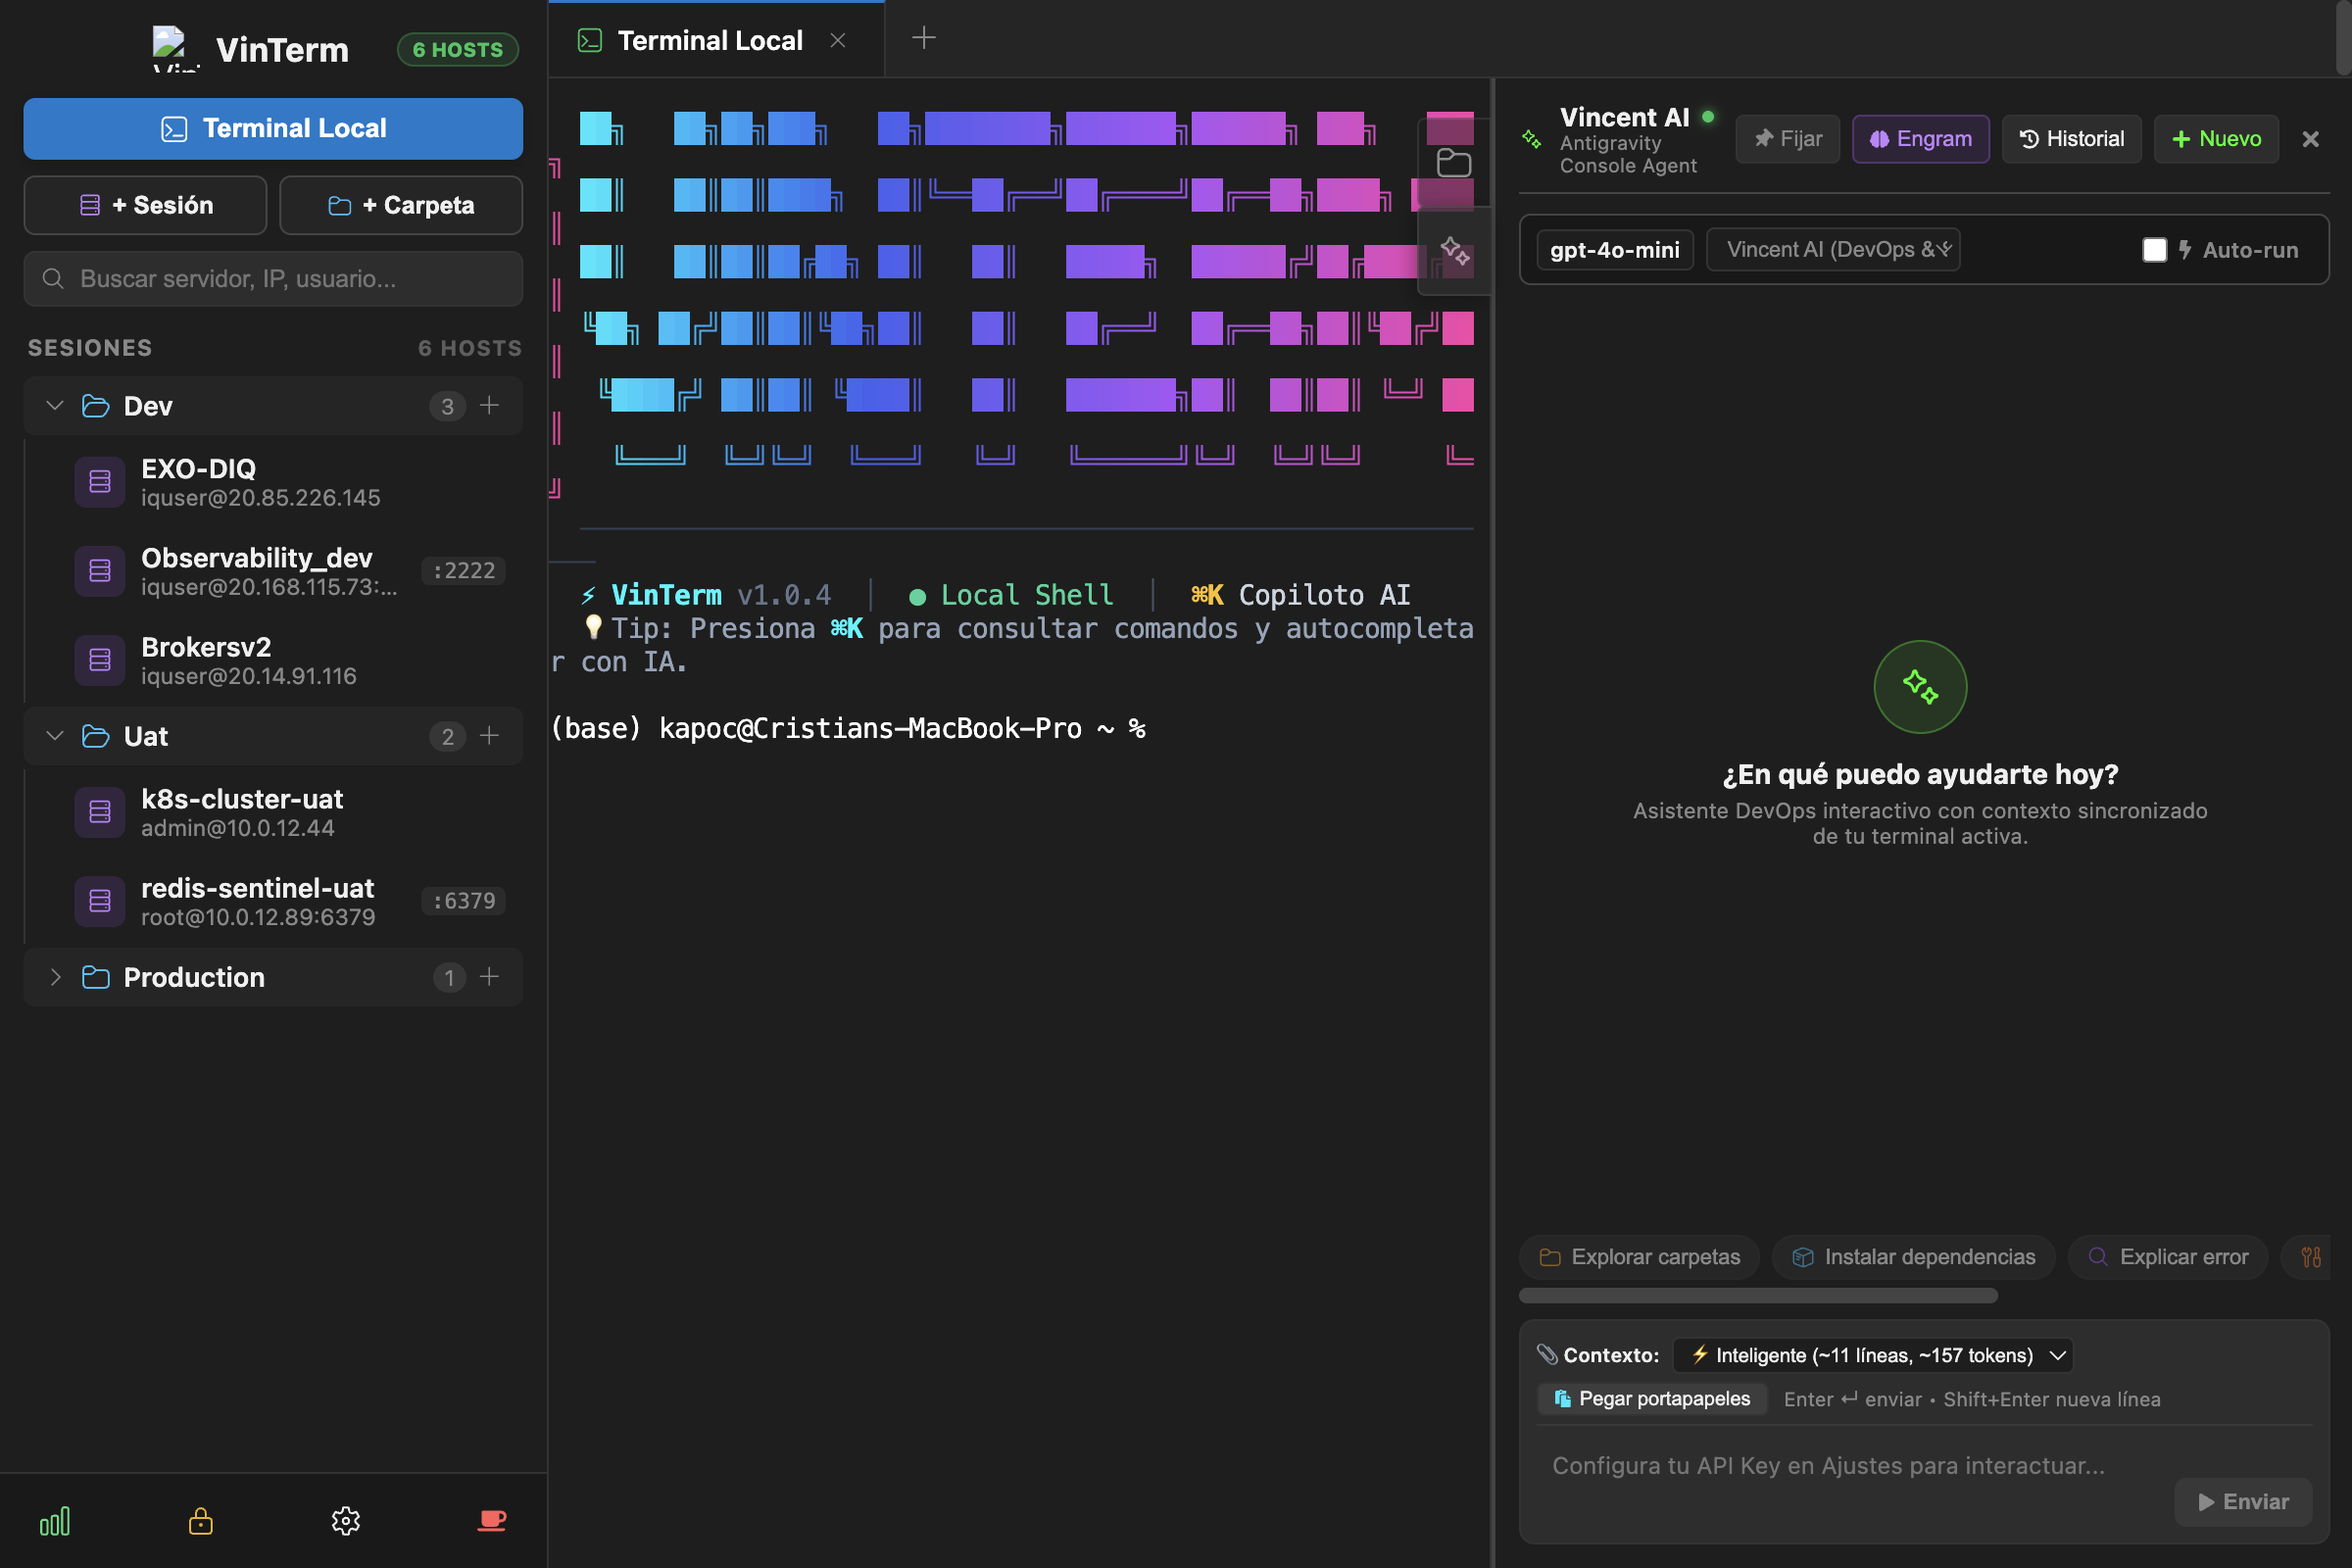
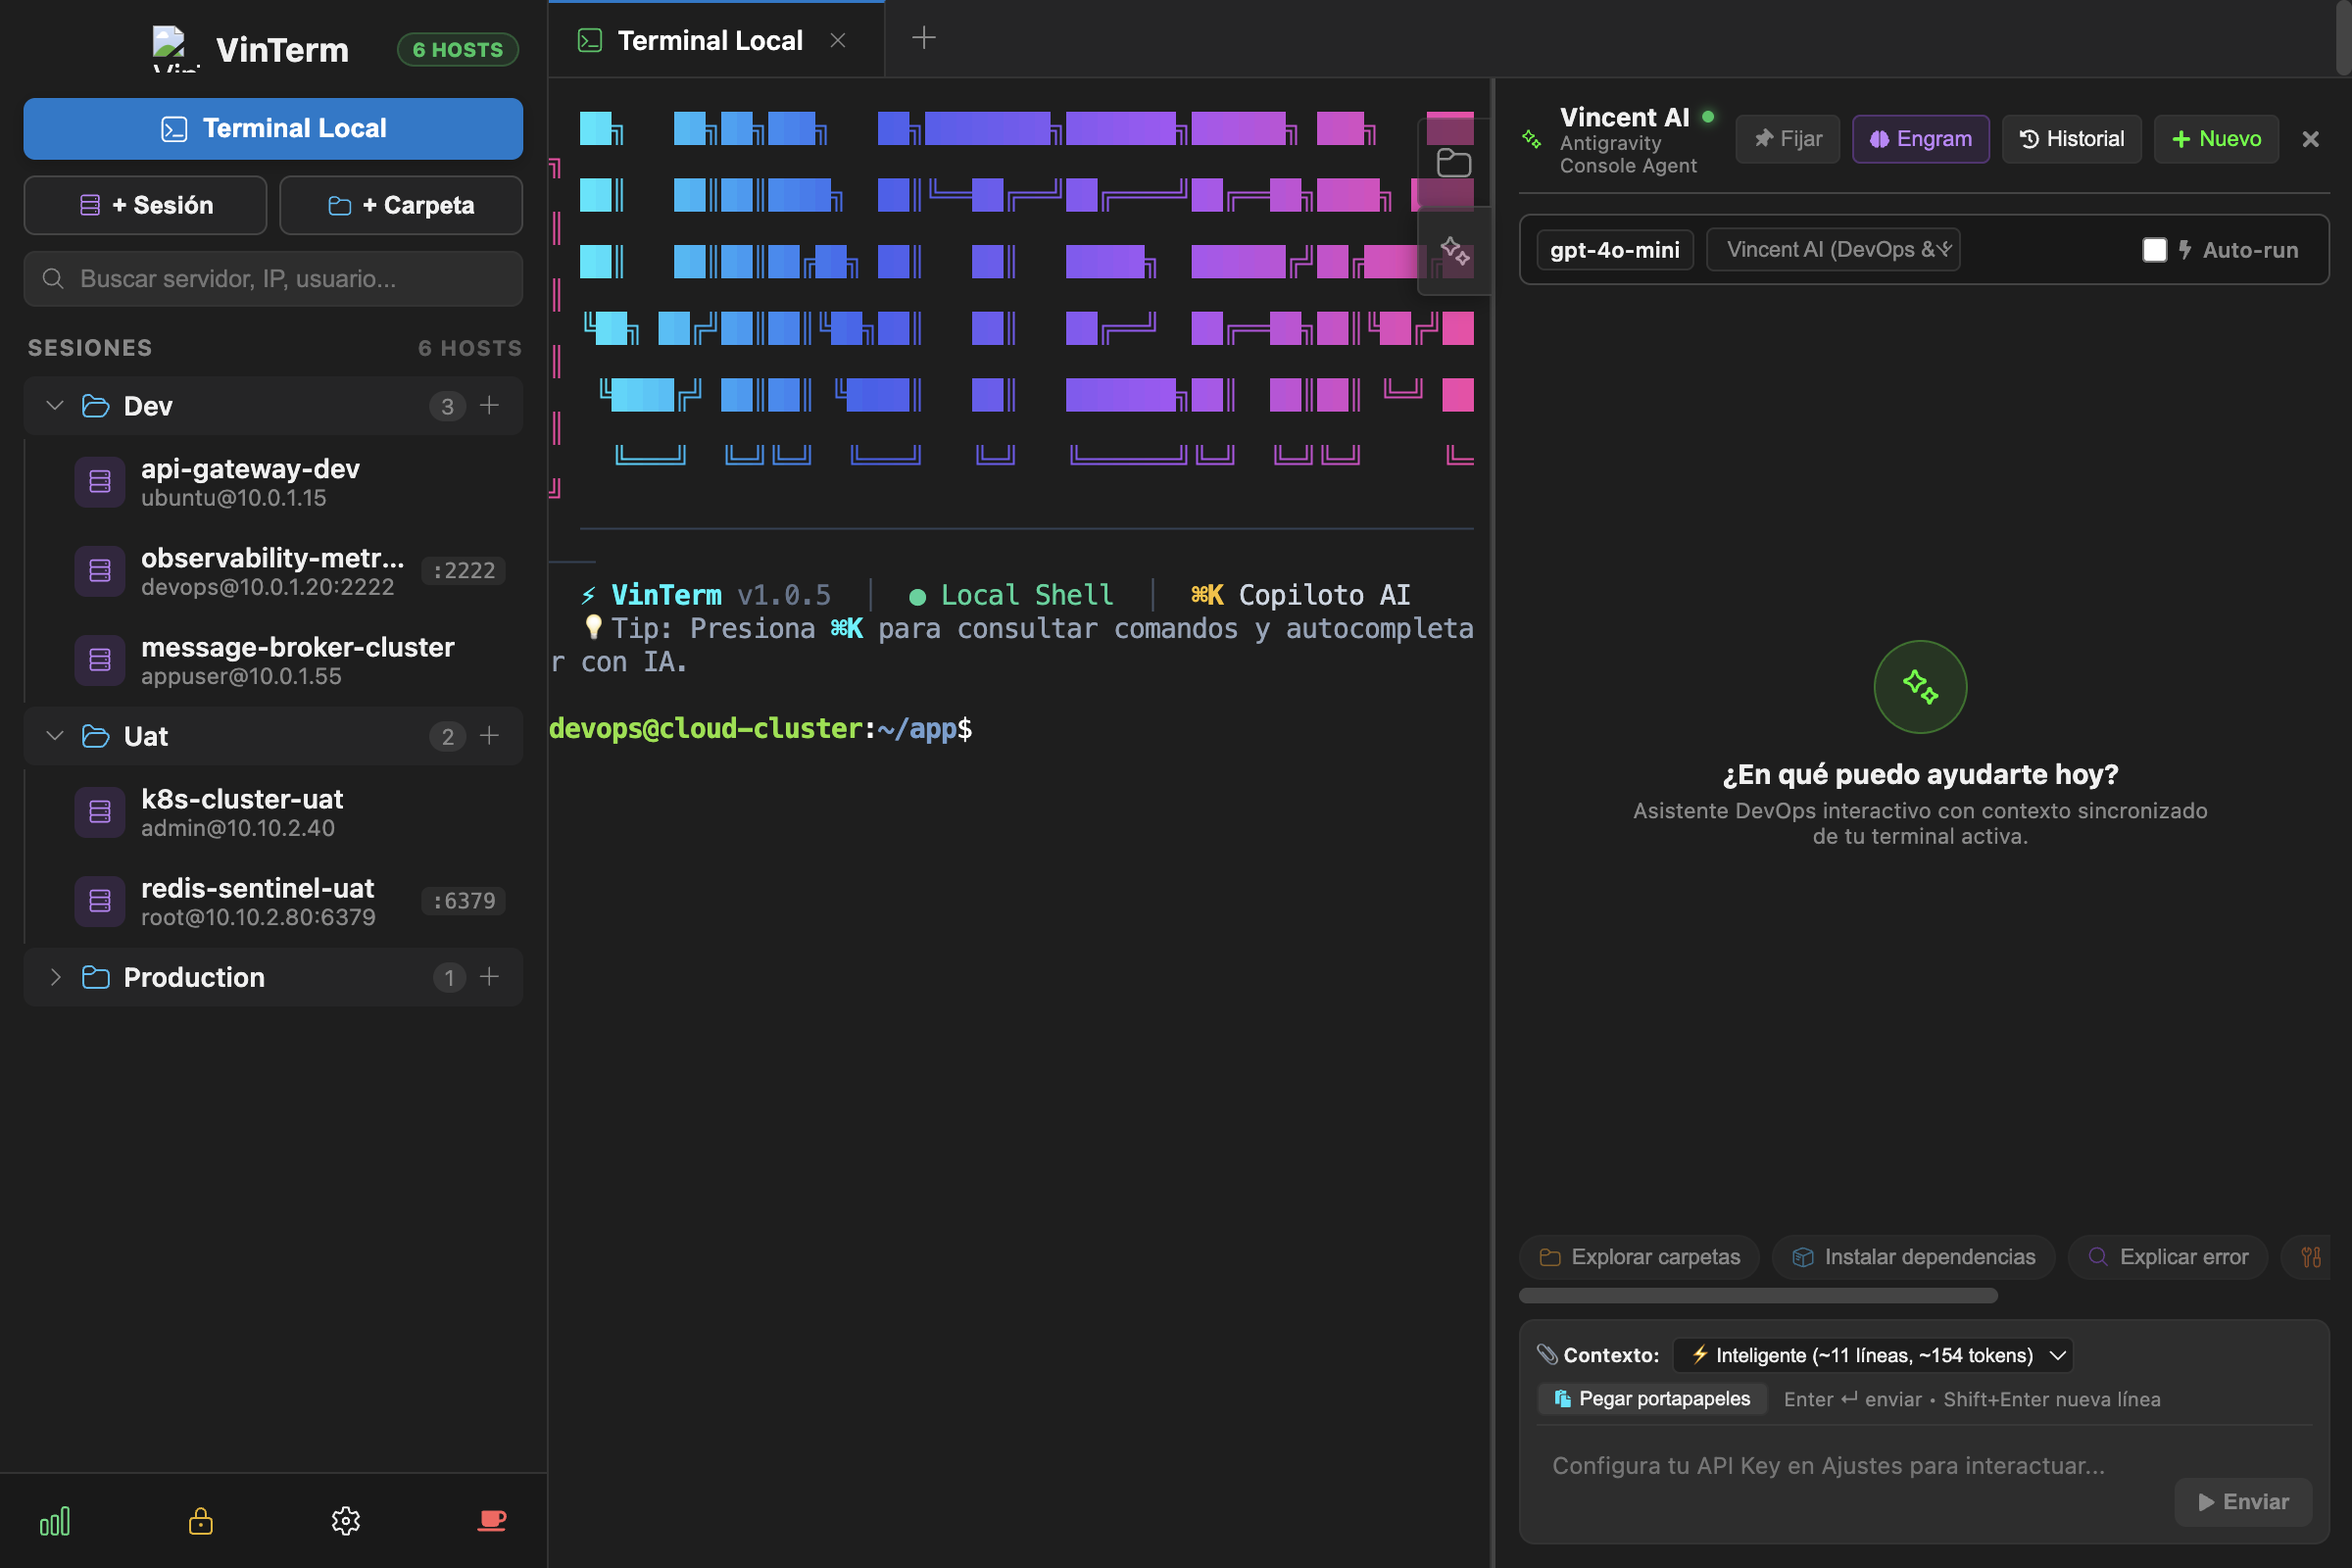
security(website): sanitize and anonymize all sensitive IPs and user prompts in screenshots

Changed region(s): [[0.0625, 0.2812, 0.1562, 0.375], [0.2188, 0.4375, 0.4688, 0.4688], [0.0625, 0.4062, 0.1875, 0.4375]]

diff --git a/app/electron/main.ts b/app/electron/main.ts
@@ -91,7 +91,7 @@ function createWindow() {
       };
 
       try {
-        // Step 1: Initialize demo state with our global hooks
+        // Step 1: Initialize demo state with censored & anonymized clean data
         await mainWindow.webContents.executeJavaScript(`
           (() => {
             if (window.__vinterm) {
@@ -102,13 +102,16 @@ function createWindow() {
                 { id: 'f3', name: 'Production', parentId: null, isOpen: false }
               ]);
               window.__vinterm.setSavedSessions([
-                { id: 's1', name: 'EXO-DIQ', folderId: 'f1', type: 'ssh', config: { username: 'iquser', host: '20.85.226.145', port: 22 } },
-                { id: 's2', name: 'Observability_dev', folderId: 'f1', type: 'ssh', config: { username: 'iquser', host: '20.168.115.73', port: 2222 } },
-                { id: 's3', name: 'Brokersv2', folderId: 'f1', type: 'ssh', config: { username: 'iquser', host: '20.14.91.116', port: 22 } },
-                { id: 's4', name: 'k8s-cluster-uat', folderId: 'f2', type: 'ssh', config: { username: 'admin', host: '10.0.12.44', port: 22 } },
-                { id: 's5', name: 'redis-sentinel-uat', folderId: 'f2', type: 'ssh', config: { username: 'root', host: '10.0.12.89', port: 6379 } },
-                { id: 's6', name: 'gcp-production-gw', folderId: 'f3', type: 'gcp', config: { gcpInstance: 'gw-west-01', gcpZone: 'us-west1-b', gcpProject: 'kappsco-cloud' } }
+                { id: 's1', name: 'api-gateway-dev', folderId: 'f1', type: 'ssh', config: { username: 'ubuntu', host: '10.0.1.15', port: 22 } },
+                { id: 's2', name: 'observability-metrics', folderId: 'f1', type: 'ssh', config: { username: 'devops', host: '10.0.1.20', port: 2222 } },
+                { id: 's3', name: 'message-broker-cluster', folderId: 'f1', type: 'ssh', config: { username: 'appuser', host: '10.0.1.55', port: 22 } },
+                { id: 's4', name: 'k8s-cluster-uat', folderId: 'f2', type: 'ssh', config: { username: 'admin', host: '10.10.2.40', port: 22 } },
+                { id: 's5', name: 'redis-sentinel-uat', folderId: 'f2', type: 'ssh', config: { username: 'root', host: '10.10.2.80', port: 6379 } },
+                { id: 's6', name: 'cloud-edge-gateway', folderId: 'f3', type: 'gcp', config: { gcpInstance: 'gw-prod-01', gcpZone: 'us-west1-b', gcpProject: 'kappsco-prod' } }
               ]);
+            }
+            if (window.__vintermTerminal && window.__vintermTerminal.cleanSensitivePrompt) {
+              window.__vintermTerminal.cleanSensitivePrompt();
             }
           })()
         `);
@@ -212,6 +215,9 @@ function createWindow() {
             if (window.__vintermTerminal) {
               window.__vintermTerminal.setShowAi(false);
               window.__vintermTerminal.setShowSftp(false);
+              if (window.__vintermTerminal.cleanSensitivePrompt) {
+                window.__vintermTerminal.cleanSensitivePrompt();
+              }
               window.__vintermTerminal.setShowQuickAi(true);
             }
           })()
@@ -234,6 +240,10 @@ function createWindow() {
           (() => {
             if (window.__vinterm) {
               window.__vinterm.setShowSessionModal(false);
+              localStorage.setItem('kx_vaults_index', JSON.stringify([
+                { id: 'v1', name: 'Cloud Infrastructure & K8s', hint: 'Clave corporativa' },
+                { id: 'v2', name: 'Personal & Staging Vault', hint: 'Clave de desarrollo' }
+              ]));
               window.__vinterm.setVaultStatus('selecting');
             }
           })()
@@ -257,10 +267,13 @@ function createWindow() {
               window.__vinterm.setVaultStatus('unlocked');
               window.__vinterm.setTabs([
                 { id: 'tab-1', type: 'local', title: 'Terminal Local' },
-                { id: 'tab-2', type: 'ssh', title: 'EXO-DIQ (prod)' },
-                { id: 'tab-3', type: 'ssh', title: 'Observability_dev' }
+                { id: 'tab-2', type: 'ssh', title: 'api-gateway-dev' },
+                { id: 'tab-3', type: 'ssh', title: 'observability-metrics' }
               ]);
-              window.__vinterm.setActiveTab('tab-2');
+              window.__vinterm.setActiveTab('tab-1');
+            }
+            if (window.__vintermTerminal && window.__vintermTerminal.cleanSensitivePrompt) {
+              window.__vintermTerminal.cleanSensitivePrompt();
             }
           })()
         `);
@@ -465,6 +478,12 @@ const shell = process.env[process.platform === 'win32' ? 'COMSPEC' : 'SHELL'] ||
 
 ipcMain.on('terminal.spawnLocal', (event, id) => {
   console.log(`[IPC] terminal.spawnLocal received for id: ${id}`);
+  if (process.argv.includes('--capture-screenshots')) {
+    setTimeout(() => {
+      pushTerminalData(id, '\x1b[1;32mdevops@cloud-cluster\x1b[0m:\x1b[1;34m~/app\x1b[0m$ ');
+    }, 450);
+    return;
+  }
   try {
     const args = process.platform === 'win32' ? [] : ['--login'];
     const ptyProcess = pty.spawn(shell, args, {

diff --git a/app/src/welcomeBanner.ts b/app/src/welcomeBanner.ts
@@ -89,7 +89,7 @@ function buildFooter(type: 'local' | 'ssh' | 'gcp', config?: any): string {
   const badge = getSessionBadge(type, config);
 
   const divider = `\x1b[38;2;51;65;85m  ────────────────────────────────────────────────────────────\x1b[0m\r\n`;
-  const infoRow = `  \x1b[1;38;2;0;245;255m⚡ VinTerm\x1b[0m \x1b[38;2;100;116;139mv1.0.4\x1b[0m  \x1b[38;2;71;85;105m│\x1b[0m  ${badge}  \x1b[38;2;71;85;105m│\x1b[0m  \x1b[1;38;2;251;191;36m${aiKey}\x1b[0m \x1b[38;2;203;213;225mCopiloto AI\x1b[0m\r\n`;
+  const infoRow = `  \x1b[1;38;2;0;245;255m⚡ VinTerm\x1b[0m \x1b[38;2;100;116;139mv1.0.5\x1b[0m  \x1b[38;2;71;85;105m│\x1b[0m  ${badge}  \x1b[38;2;71;85;105m│\x1b[0m  \x1b[1;38;2;251;191;36m${aiKey}\x1b[0m \x1b[38;2;203;213;225mCopiloto AI\x1b[0m\r\n`;
   const tipRow = `  \x1b[38;2;148;163;184m💡 Tip: Presiona \x1b[1;38;2;0;245;255m${aiKey}\x1b[0;38;2;148;163;184m para consultar comandos y autocompletar con IA.\x1b[0m\r\n\r\n`;
 
   return `${divider}${infoRow}${tipRow}`;

diff --git a/app/src/Terminal.tsx b/app/src/Terminal.tsx
@@ -3126,9 +3126,17 @@ export const TerminalComponent: React.FC<TerminalProps> = ({ id, type, config, i
       ...(window as any).__vintermTerminal,
       setShowAi,
       setShowSftp,
-      setShowQuickAi
+      setShowQuickAi,
+      cleanSensitivePrompt: () => {
+        if (xtermRef.current) {
+          xtermRef.current.reset();
+          playWelcomeBanner(xtermRef.current, { type, config }, () => {
+            xtermRef.current?.write('\x1b[1;32mdevops@cloud-cluster\x1b[0m:\x1b[1;34m~/app\x1b[0m$ ');
+          });
+        }
+      }
     };
-  }, []);
+  }, [type, config]);
 
   const envContext: EnvContext = useMemo(() => {
     const isMac = typeof navigator !== 'undefined' && navigator.userAgent.toLowerCase().includes('mac');
